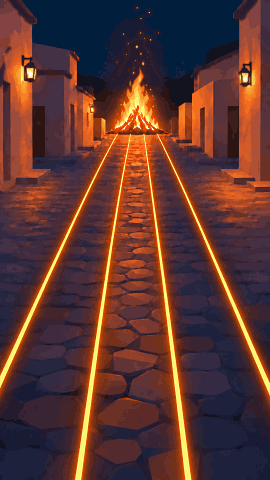
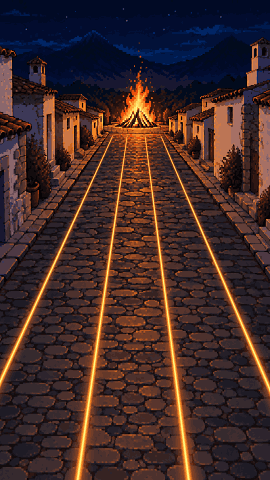
Pixel look: the street is Daniele's second street picture
bake_ai_street.py lays it into the first picture's frame (its bonfire where the old one was, its
road under the lanes), paints the four glowing lines on along the lanes, and bakes it to the
grid. The shader's laid cobbles are off: the picture has its own; the lanes stay smooth.

Claude-Session: https://claude.ai/code/session_01NU82NZQo49UMwoRckZz3mp

diff --git a/tools/art/pixel3d/bake_ai_street.py b/tools/art/pixel3d/bake_ai_street.py
@@ -1,0 +1,67 @@
+"""The street from Daniele's second outside-AI set (game/art/ai/street.png, 2026-10-08) as the pixel
+look's street:
+
+    python3 tools/art/pixel3d/bake_ai_street.py
+
+The game's lanes, fire and portraits are placed in the first street picture's coordinates
+(StreetBackdrop: IMG, RAILS, FIRE, FRAME...). The new picture is laid into that same frame instead
+of moving them: scaled and shifted so its bonfire sits where the old one was and its road runs up
+to it under the lanes. It has no glowing lines, so the four lines are painted on along RAILS in the
+old picture's colours (pale yellow cores widening down the road in an orange glow). Then it goes
+through bake_street.py's steps to the play screen's grid.
+
+Writes game/art/pixel/street.png (same size as before).
+"""
+import os
+import numpy as np
+from PIL import Image
+import cv2
+import pixelate as px
+import bake_street
+
+SRC = os.path.join(px.GAME, "art/ai/street.png")
+IMG = (941, 1672)                     # StreetBackdrop.IMG
+RAILS = [(609.17, -0.45827), (510.90, -0.14397), (445.17, 0.12678), (356.72, 0.43025)]
+FAR_Y = 468.0
+SCALE = 1.09                          # the new picture in the old one's px
+NEW_FIRE = (512.0, 330.0)             # the bonfire's heart in the new picture
+OLD_FIRE = (480.0, 370.0)             # StreetBackdrop.FIRE
+
+
+def lay_in(rgb):
+    off = (OLD_FIRE[0] - NEW_FIRE[0] * SCALE, OLD_FIRE[1] - NEW_FIRE[1] * SCALE)
+    m = np.float32([[SCALE, 0, off[0]], [0, SCALE, off[1]]])
+    # the sky above the picture's top: its top row carried up
+    return cv2.warpAffine(rgb, m, IMG, flags=cv2.INTER_AREA, borderMode=cv2.BORDER_REPLICATE)
+
+
+def lines(rgb):
+    f = rgb.astype(np.float32)
+    h, w = f.shape[:2]
+    ys = np.arange(h, dtype=np.float32)[:, None]
+    xs = np.arange(w, dtype=np.float32)[None, :]
+    core_c = np.array([255, 250, 135], np.float32)
+    rim_c = np.array([255, 150, 40], np.float32)
+    glow_c = np.array([235, 105, 25], np.float32)
+    on = np.clip((ys - FAR_Y) / 12.0, 0.0, 1.0)
+    for a, b in RAILS:
+        d = np.abs(xs - (a + b * ys)) * np.cos(np.arctan(b))
+        half = np.maximum(1.2, 0.0068 * (ys - 330.0))
+        glow = np.exp(-(d / (half * 3.2)) ** 2) * 0.55 * on
+        f = f * (1 - glow[..., None]) + glow_c * glow[..., None]
+        rim = np.clip(1.6 - d / half, 0.0, 1.0) * on
+        f = f * (1 - rim[..., None]) + rim_c * rim[..., None]
+        core = np.clip(1.0 - d / (half * 0.55), 0.0, 1.0) ** 0.6 * on
+        f = f * (1 - core[..., None]) + core_c * core[..., None]
+    return np.clip(f, 0, 255).astype(np.uint8)
+
+
+def main():
+    rgb = np.asarray(Image.open(SRC).convert("RGB"))
+    laid = lines(lay_in(rgb))
+    Image.fromarray(laid).save(os.path.join(px.GAME, "art/ai/street_laid.png"))
+    bake_street.main(laid, haze=False)
+
+
+if __name__ == "__main__":
+    main()

diff --git a/tools/art/pixel3d/bake_street.py b/tools/art/pixel3d/bake_street.py
@@ -18,8 +18,8 @@ CELL = 3.0 / max(720.0 / 941.0, 1440.0 / 1672.0)   # picture px per cell on the 
 K = 56   # colours in the street's own palette
 
 
-def main():
-    rgb = np.asarray(Image.open(SRC).convert("RGB"))
+def main(src=SRC, out_path=OUT, haze=True):
+    rgb = np.asarray(Image.open(src).convert("RGB")) if isinstance(src, str) else src
     h, w = rgb.shape[:2]
     size = (int(round(w / CELL)), int(round(h / CELL)))
     # an edge-keeping smooth over the whole picture: the stones' texture goes, the flames, walls
@@ -27,14 +27,15 @@ def main():
     mixed = px.smooth(rgb, 9, 20, 7)
     # the red haze the picture puts above the flames reads as a solid red column once it is pixels:
     # let the night sky show through it (only dim, red, above the flames)
-    hz = mixed.astype(np.float32)
-    lum = hz.mean(-1)
-    red = (hz[..., 0] > hz[..., 1] * 2.2) & (lum < 95)
-    rows = np.clip((345.0 - np.arange(hz.shape[0])[:, None]) / 50.0, 0.0, 1.0)
-    m = red.astype(np.float32) * rows
-    m = cv2.GaussianBlur(m, (0, 0), 3)[..., None]
-    sky = np.array([28, 26, 52], np.float32)
-    mixed = (hz * (1 - 0.8 * m) + sky * 0.8 * m).astype(np.uint8)
+    if haze:
+        hz = mixed.astype(np.float32)
+        lum = hz.mean(-1)
+        red = (hz[..., 0] > hz[..., 1] * 2.2) & (lum < 95)
+        rows = np.clip((345.0 - np.arange(hz.shape[0])[:, None]) / 50.0, 0.0, 1.0)
+        m = red.astype(np.float32) * rows
+        m = cv2.GaussianBlur(m, (0, 0), 3)[..., None]
+        sky = np.array([28, 26, 52], np.float32)
+        mixed = (hz * (1 - 0.8 * m) + sky * 0.8 * m).astype(np.uint8)
     small = px.sharpen(px.shrink(mixed, size), 0.6)
     # the street's own colours; the bright fire counted four times over, so its yellows and whites
     # each get a colour instead of all snapping to one red
@@ -42,7 +43,7 @@ def main():
     pal = px.kpalette(np.concatenate([flat, np.repeat(flat[flat.mean(-1) > 150], 3, 0)]), K)
     idx = px.despeckle(px.nearest(small, pal), np.ones(small.shape[:2], bool), pal, 2, 22.0)
     out = pal[idx]
-    Image.fromarray(out.astype(np.uint8)).save(OUT)
+    Image.fromarray(out.astype(np.uint8)).save(out_path)
     print("street", size)
 
 
